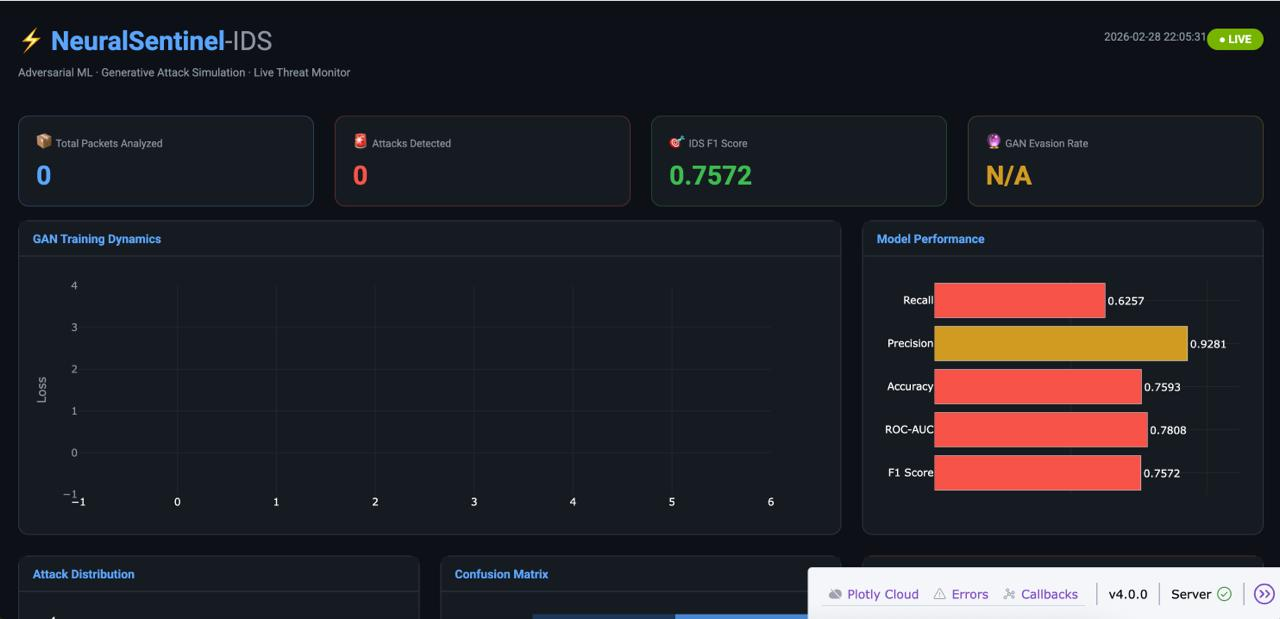
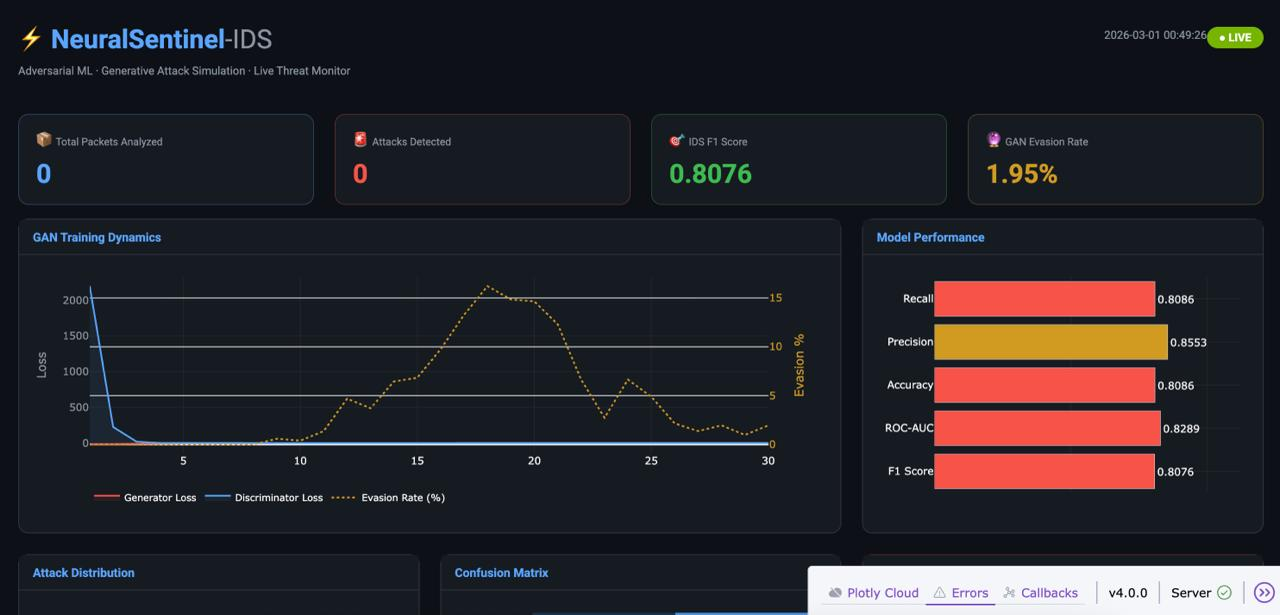
update: replace screenshots with new dashboard images

diff --git a/README.md b/README.md
@@ -33,10 +33,6 @@
 
 ![NeuralSentinel Live 3](assets/ss3.jpeg)
 
-<br>
-
-![NeuralSentinel Live 4](assets/ss4.jpeg)
-
 </div>
 
 ---
